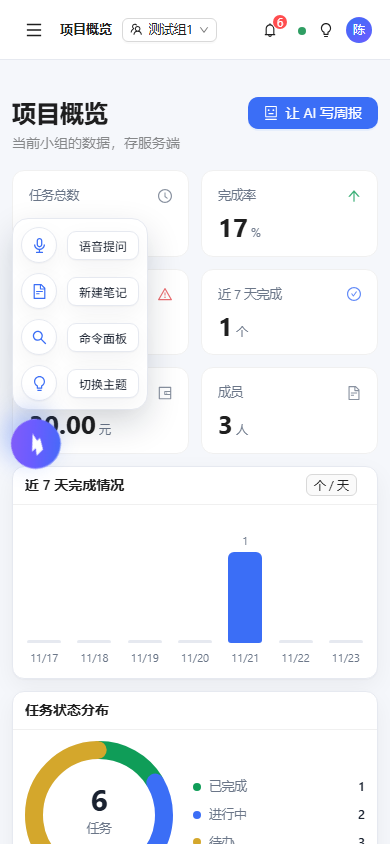
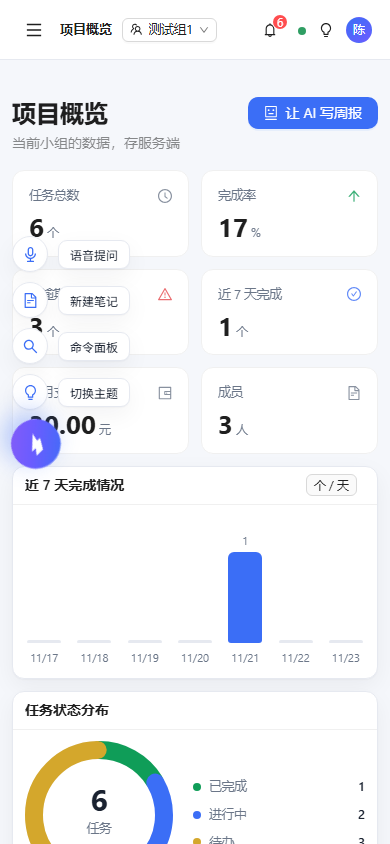
fix: 去掉悬浮球菜单的容器底色，只保留单个胶囊

diff --git a/src/styles/global.css b/src/styles/global.css
@@ -2727,15 +2727,6 @@ html[data-theme='dark'] .alert-banner {
   align-items: flex-start;
 }
 
-/* 菜单加一个实底容器，压在卡片上也能看清 */
-.fab-menu {
-  padding: 8px;
-  border-radius: 16px;
-  background: var(--panel);
-  border: 1px solid var(--border);
-  box-shadow: 0 14px 34px rgba(15, 23, 42, 0.16);
-}
-
 .fab-item-icon {
   width: 36px;
   height: 36px;
